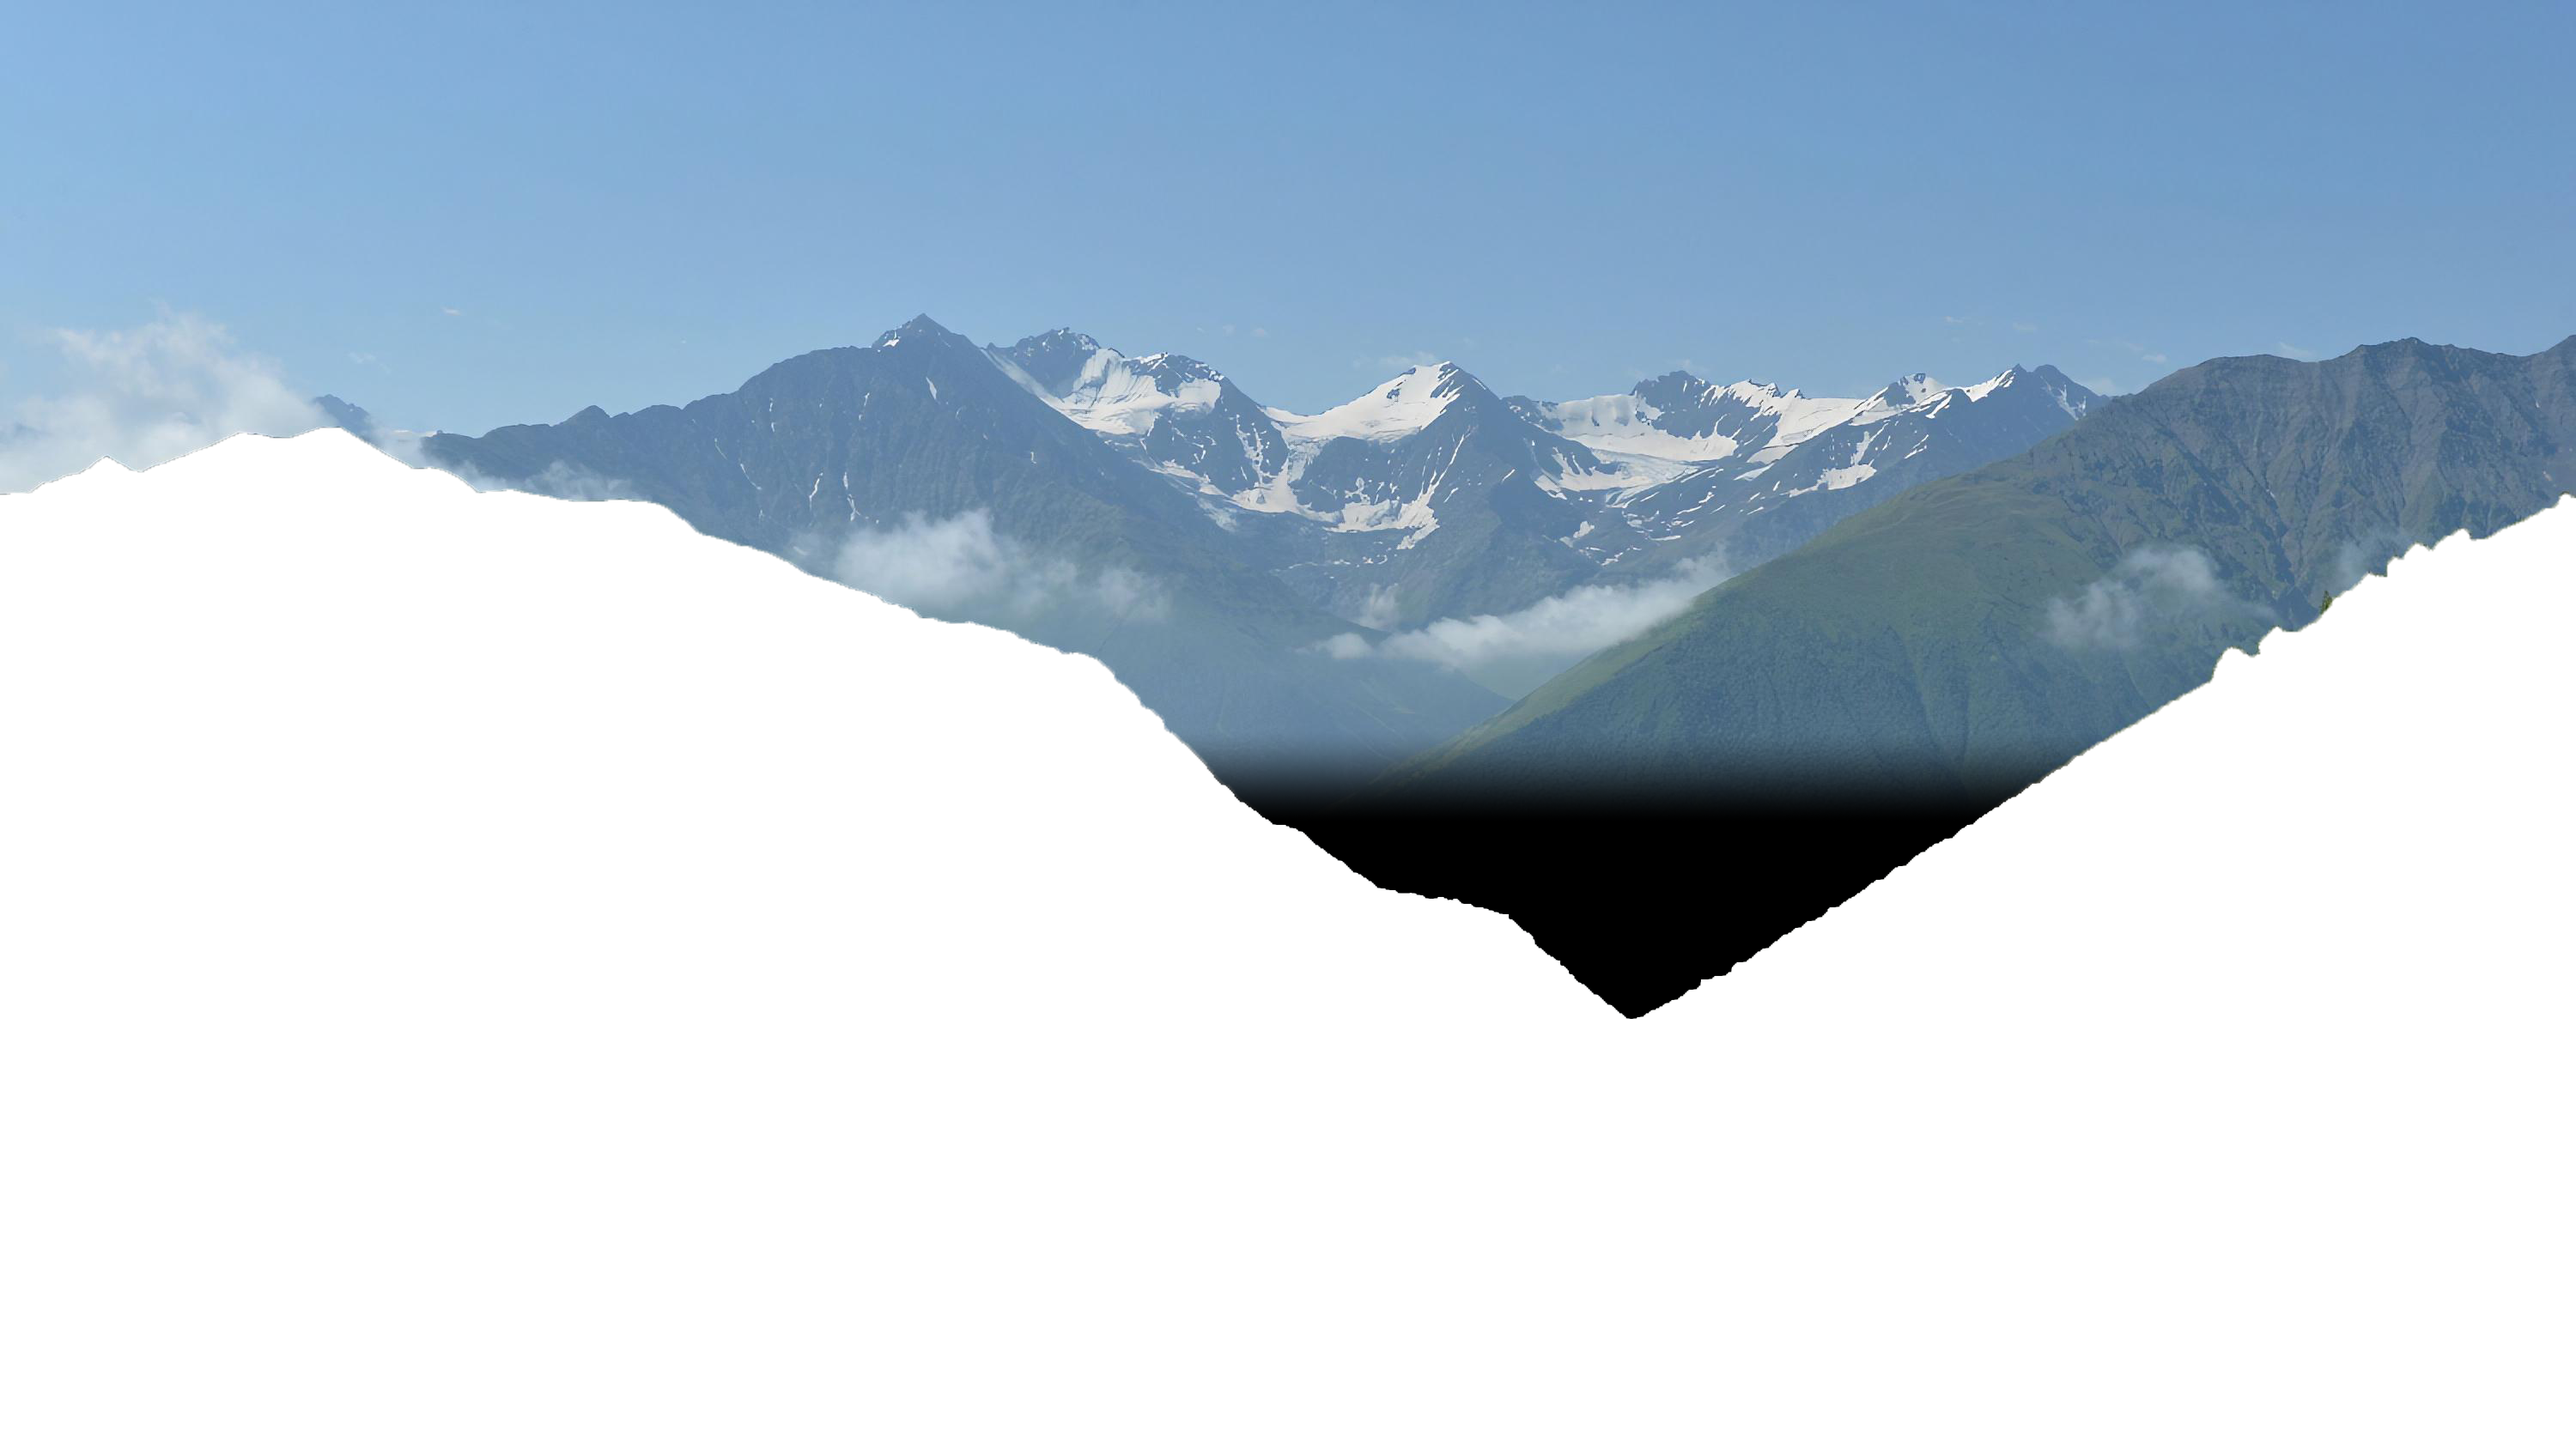
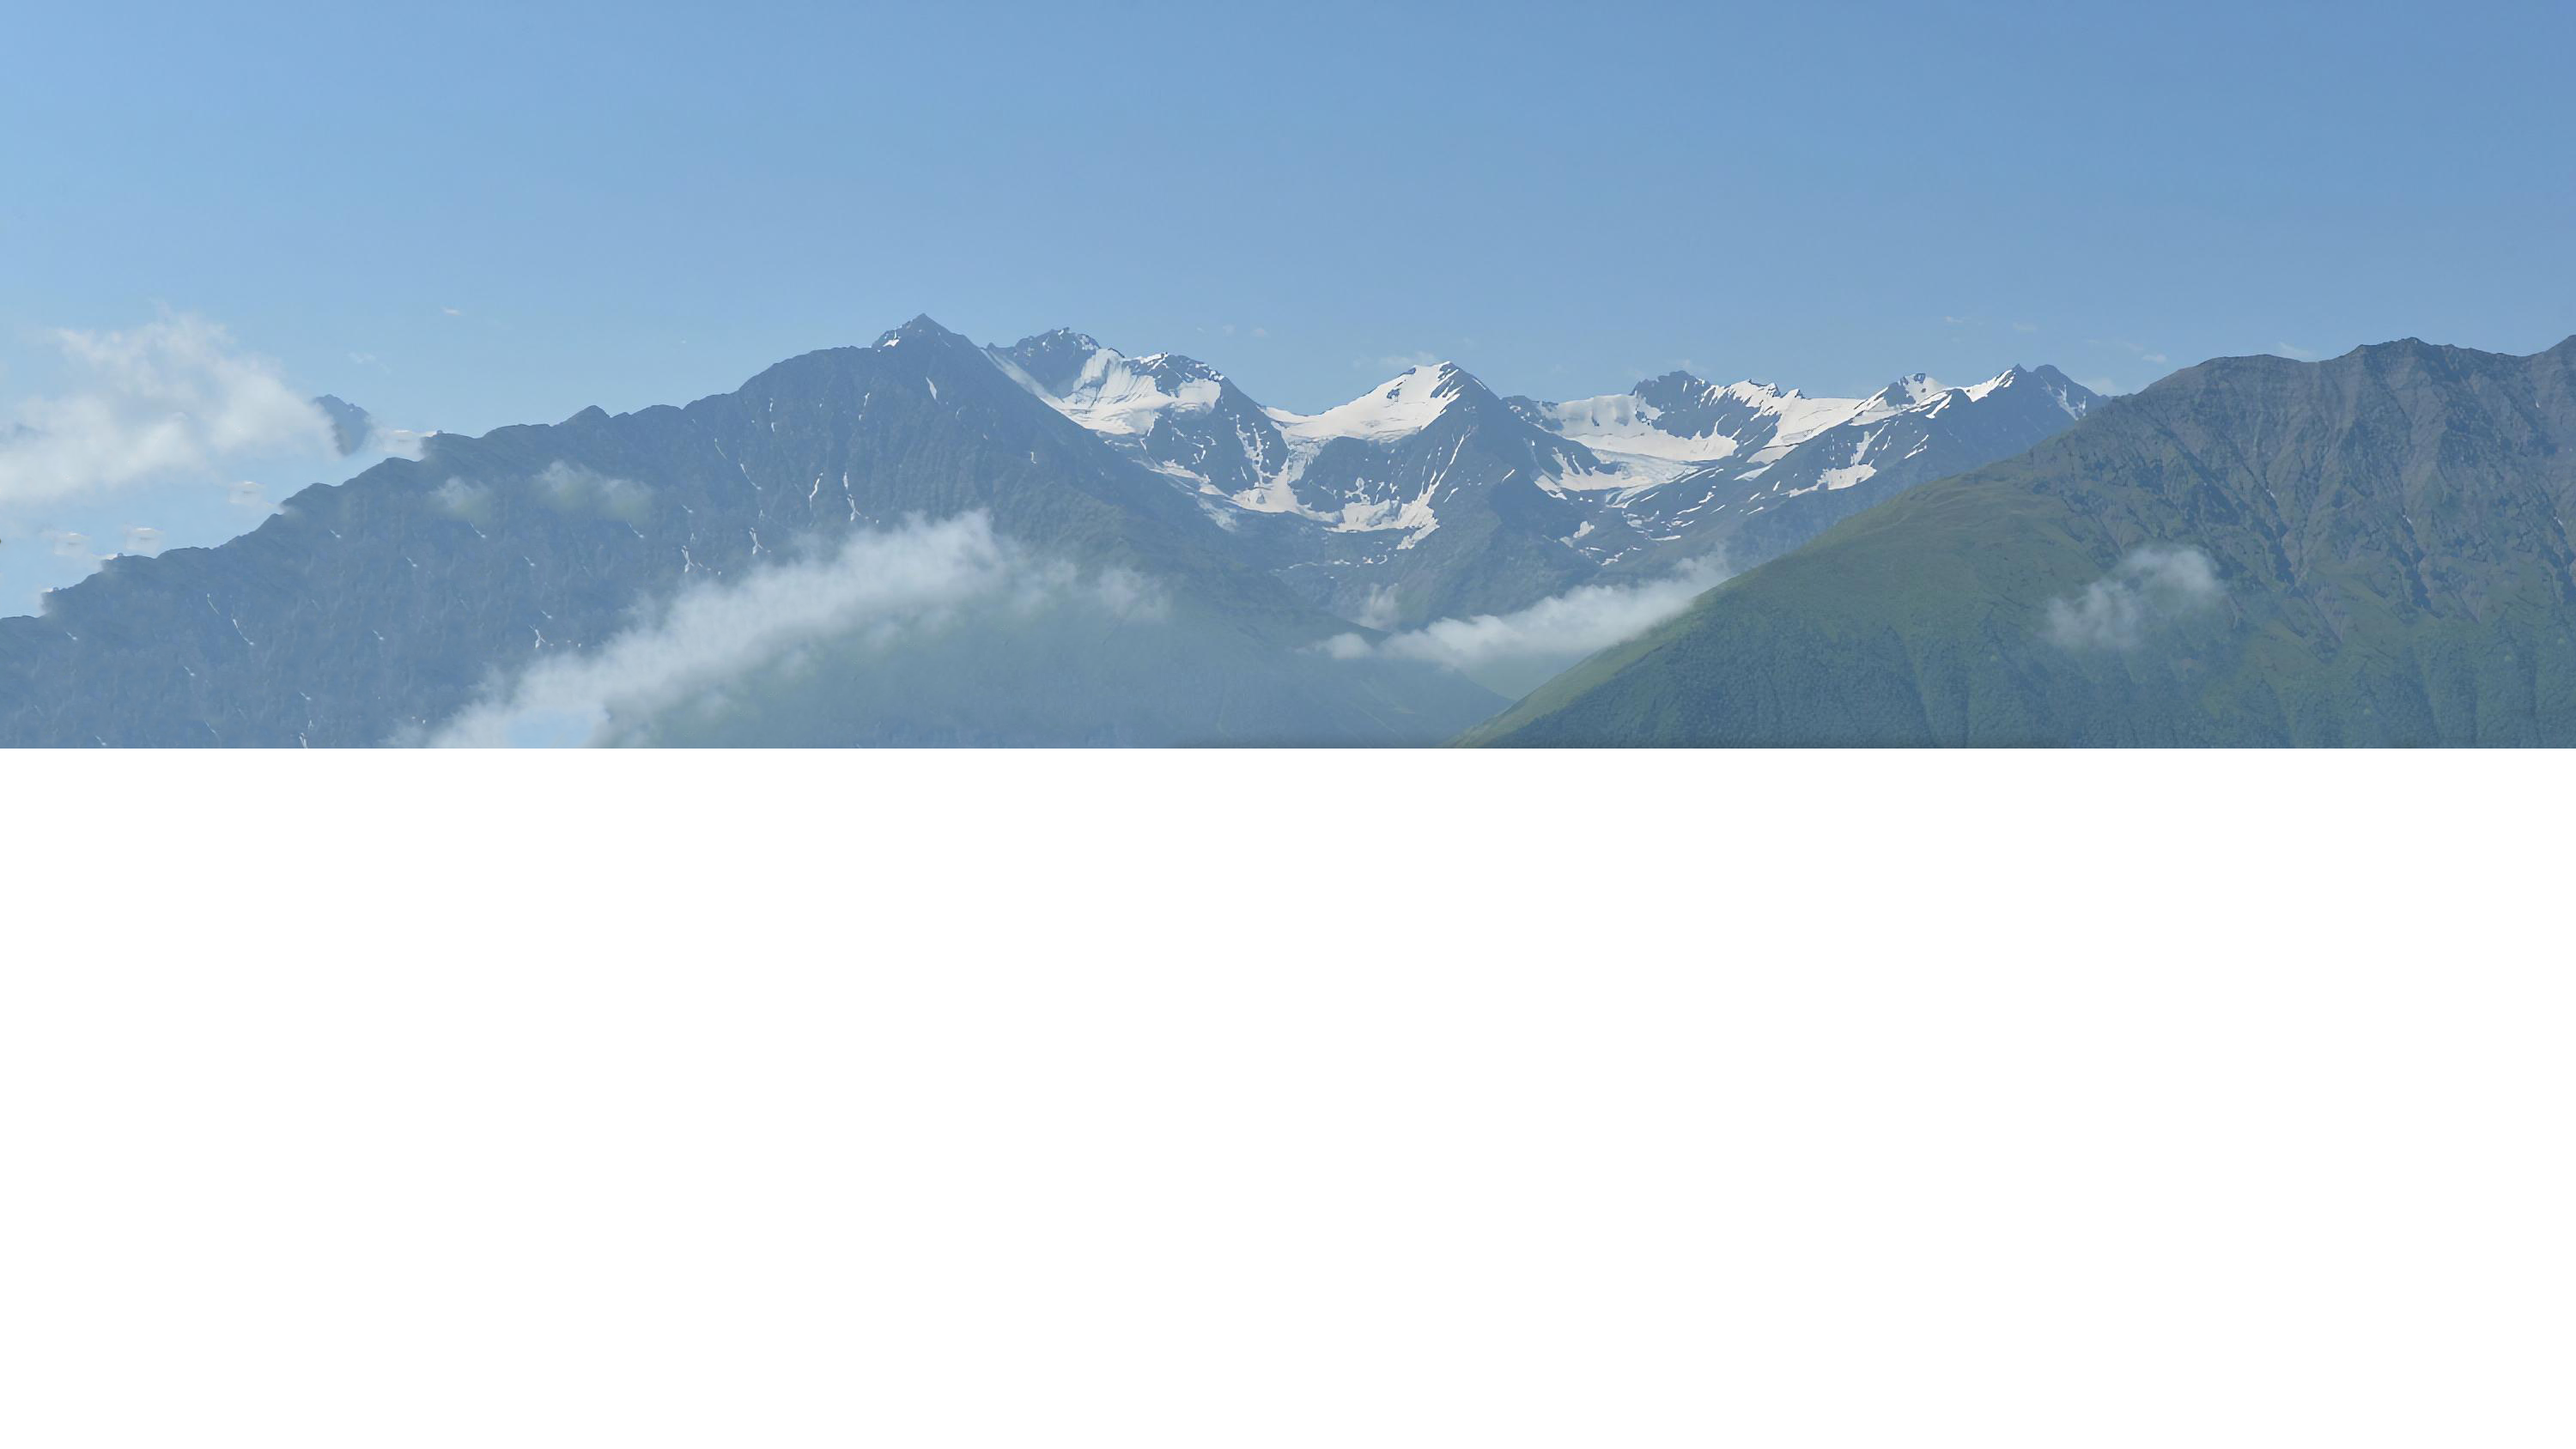
pages test 13

Changed region(s): [[0.0, 0.2773, 1.0, 0.7085]]

diff --git a/style.css b/style.css
@@ -16,12 +16,19 @@ h1, h2, h3, h4, h5, h6 {
     
 }
 
+
+/** {
+    background: #000 !important;
+    color: #0f0 !important;
+    outline: solid #f00 1px !important;
+}*/
+
+
 body {
     position: relative;
     background-color: black;
     font-family: 'Poppins', sans-serif; 
     margin: 0;
-    min-width: 500px;
 }
 
 /* Container */
@@ -414,6 +421,7 @@ body {
     font-size: 10px;
 }
 
+
 .map {
     width: 100%;
     height: 100vh;
@@ -517,10 +525,38 @@ body {
 
 /*Медиа запросы*/
 
+@media (max-width: 1200px) { 
+    .modal {
+        max-width: 100%;
+        height: 100%;
+    }
+
+    .modal-content__inner {
+        flex-direction: column;
+    }
+
+    .modal__info {
+        justify-content: center;
+        align-items: center;
+        text-align: center;
+        max-width: 70%;
+        margin: 0 auto;
+    }
+
+}
+
+
+@media (max-height: 1370px) {
+    .mountain3 {
+        height: 170%;
+    }
+  } 
+
+
 @media (max-width: 1010px) {
     .mountain3 {
         min-width: 100vw;
-        height: 140%;
+        height: 10%;
     }
 
     .footer {
@@ -539,13 +575,33 @@ body {
         justify-content: center;
         flex-direction: column;
         margin: 100px;
+        text-align: center;
     }
 
     .footer__link {
         margin: 5px;
     }
 
+    .header__title {
+        font-size: 4.2rem;
+        line-height: 3.9rem;
+    }
+
+    .dots__title {
+        font-size: 4.2rem;
+        line-height: 3.9rem;
+    }
+
 }
+
+@media (max-height: 850px) {
+    .mountain3 {
+        height: 150%;
+    }
+  
+    
+}  
+
 
 @media (max-width: 800px) {
     .mountain3 {
@@ -564,6 +620,10 @@ body {
         
     }
 
+    .dots__title {
+        margin: 20px;
+    }
+
     .grid__img {
         margin: 10px;
     }
@@ -577,6 +637,27 @@ body {
         margin-top: 500px;
     }
 
+    .button__inner {
+        flex-direction: column;
+    }
+
+    .title__link {
+        margin-left: 10px;
+        padding: 5px 3px;
+    }
+
+    .modal-button__inner {
+        flex-direction: row;
+    }
+
+    .modal-title__link {
+        margin: 2px;
+    }    
+
+    .modal__info {
+        margin-top: 50px;
+    }
+
 }  
 
 
@@ -584,7 +665,7 @@ body {
 @media (max-width: 500px) {
     .mountain3 {
         min-width: 140vw;
-        height: 160%;
+        height: 165%;
     }
   
     .dots__title {
@@ -618,32 +699,97 @@ body {
         margin: 20px 20px;
     }
 
+    .title__link {
+        margin: 0px 10px 5px 10px;
+        padding: 5px 2px;
+    }
+
+    .modal-button__inner {
+        flex-direction: row;
+    }
+
+    .modal-title__link {
+        margin: 2px;
+    }    
+
+    .map {
+        width: 65rem;
+        height: 15rem;
+        margin-bottom: 0px;
+        margin: 0;
+    }
 
 }  
+
 
 @media (max-width: 400px) {
     .mountain3 {
         min-width: 160vw;
-        height: 155%;
+        height: 170%;
     }
-  }  
+    
+    .header__title {
+        font-size: 3.7rem;
+        line-height: 3.5rem;
+    }
+
+    .dots__title {
+        font-size: 3.7rem;
+        line-height: 3.5rem;
+    }
+
+    .modal__info {
+        margin-top: 30px;
+    }
+
+}  
 
 @media (max-width: 350px) {
     .mountain3 {
         min-width: 180vw;
-        height: 160%;
+        height: 165%;
     }
-  }  
 
-
-  @media (max-height: 850px) {
-    .mountain3 {
-        height: 167%;
+    .header__title {
+        font-size: 3.2rem;
+        line-height: 3rem;
     }
-  }  
+
+    .dots__title {
+        font-size: 3.2rem;
+        line-height: 3rem;
+    }
+
+    .modal__info {
+        margin-top: 0px;
+    }
+
+    .info__title {
+        font-size: 18px;
+    }   
+
+    .info__subtitle {
+        font-size: 11px;
+        margin: 10px 0;
+    }
+    
+}  
+
+@media (max-width: 300px) {
+
+    .header__title {
+        font-size: 2.7rem;
+        line-height: 2.5rem;
+    }
+
+    .dots__title {
+        font-size: 2.7rem;
+        line-height: 2.5rem;
+    }
+
+    
+
+}  
+ 
   
-  @media (max-height: 750px) {
-    .mountain3 {
-        height: 160%;
-    }
-  } 
+  

diff --git a/index.html b/index.html
@@ -3,21 +3,18 @@
 <head>
     <meta charset="UTF-8">
     <meta http-equiv="X-UA-Compatible" content="IE=edge">
-    <meta name="viewport" content="width=device-width, initial-scale=1">
+    <meta name="viewport" content="width=device-width, initial-scale=1.0">
     <link rel="icon" href="images/icon.png">
     <link rel="stylesheet" href="style.css">
     <title>Vacation Agency</title>
 </head>
 <body>
     <header class="header">
-    <div class="container ">
+    <div class="container">
         <nav class="nav translate" data-speed="-0.99" id="navID">
             <div class="nav__inner">
-            <div class="logo__inner">
             <h2 class="nav__logo">Vacation <br> Agency <span class="nav__dot">.</span></h2>
-            <a href="#" class="nav__burger-menu" id="burger-button"></a>
-            <a href="#" class="nav__burger-close" id="burger-button--close">✕</a>
-            </div>
+            
             <div class="nav__links">
                 <a href="#"  class="nav__link">главная</a>
                 <a href="#dotsID" class="nav__link">точки</a>
@@ -30,18 +27,11 @@
     </div>
         <img src="images/mountain1.png" alt="" class="mountain1 translate" data-speed="-0.5">
         <img src="images/mountain2.png" alt="" class="mountain2 translate" data-speed="-0.5">
-        <img src="images/mountain3.png" alt="" class="mountain3">
+        <img src="images/mountain3.png" alt="" class="mountain3 translate" data-speed="-0.25">
         <div class="shadow" data-speed="1"></div>        
     </header>
 
     
-    <nav class="burger__nav" id="burger">
-        <a href="#" class="burger__link">главная</a>
-        <a href="#" class="burger__link">точки</a>
-        <a href="#" class="burger__link">команда</a>
-        <a href="#" class="burger__link">CHR</a>
-    </nav>
-
 
     <section class="dots" id="dotsID">
         <div class="container">
@@ -54,7 +44,6 @@
                 <a class="filter__link" onclick="filterSelection('museum')">Музеи</a>
                 <a class="filter__link" onclick="filterSelection('theatre')">Театры</a>
                 <a class="filter__link" onclick="filterSelection('parks')">Парки</a>
-                <a class="filter__link" onclick="filterSelection('parks')">Плейсхолдер</a>
             </div>
         </nav>
         <div class="dots__grid">
@@ -184,12 +173,12 @@
         <div class="modal__info">
             <h3 class="info__title">Сердце Чечни</h3>
             <p class="info__subtitle">Мечеть «Сердце Чечни» имени Ахмата Кадырова — мечеть в центре Грозного, одна из крупнейших в России и Европе. Строительство мечети было начато в апреле 2006 года и закончилось в октябре 2008 года</p>
-            <div class="button__inner">
+            <div class="button__inner modal-button__inner">
             <form action="https://www.google.com/maps/place/%D0%A1%D0%B5%D1%80%D0%B4%D1%86%D0%B5+%D0%A7%D0%B5%D1%87%D0%BD%D0%B8/@43.3177125,45.6917396,17z/data=!3m1!4b1!4m5!3m4!1s0x4051d3e41e4f142d:0xb7b96b83453e05!8m2!3d43.3177086!4d45.6939283">
-                <button class="title__link">Карты</button>
+                <button class="title__link modal-title__link">Карты</button>
             </form>
             <form action="https://www.google.com/maps/@43.3180869,45.6940989,3a,75y,195.02h,105.01t/data=!3m8!1e1!3m6!1sAF1QipMA2cjBEj_UMafdW_l8FJ_VcHG4ZqncUSYdtlpk!2e10!3e11!6shttps:%2F%2Flh5.googleusercontent.com%2Fp%2FAF1QipMA2cjBEj_UMafdW_l8FJ_VcHG4ZqncUSYdtlpk%3Dw203-h100-k-no-pi-0-ya139.27158-ro-0-fo100!7i9728!8i4860?">
-                <button class="title__link">Тур 360</button>
+                <button class="title__link modal-title__link">Тур 360</button>
             </form>
         </div>
         </div>
